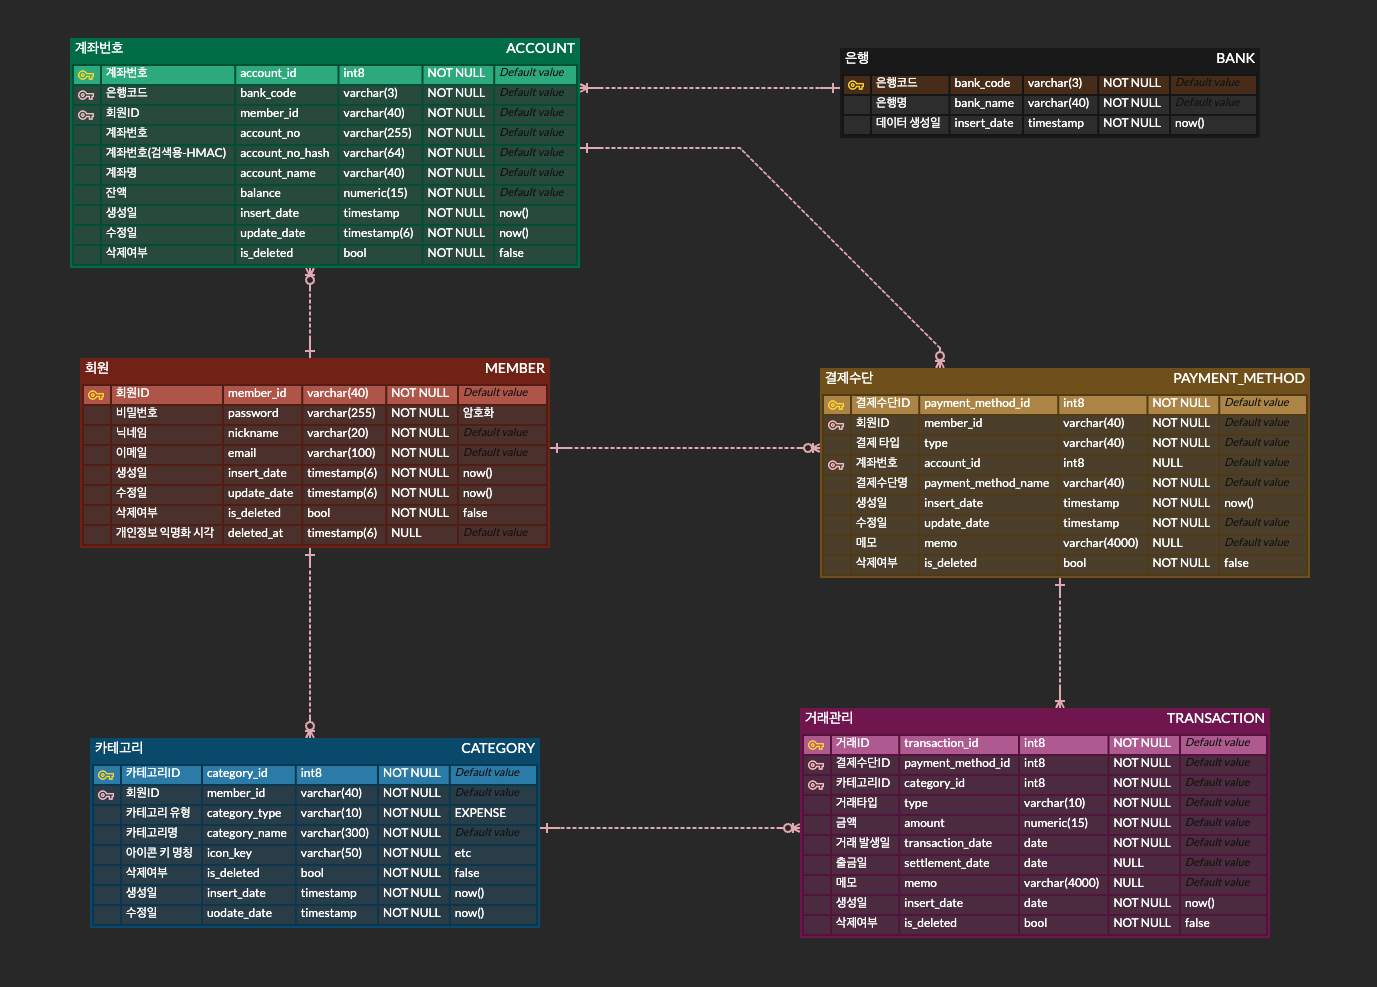
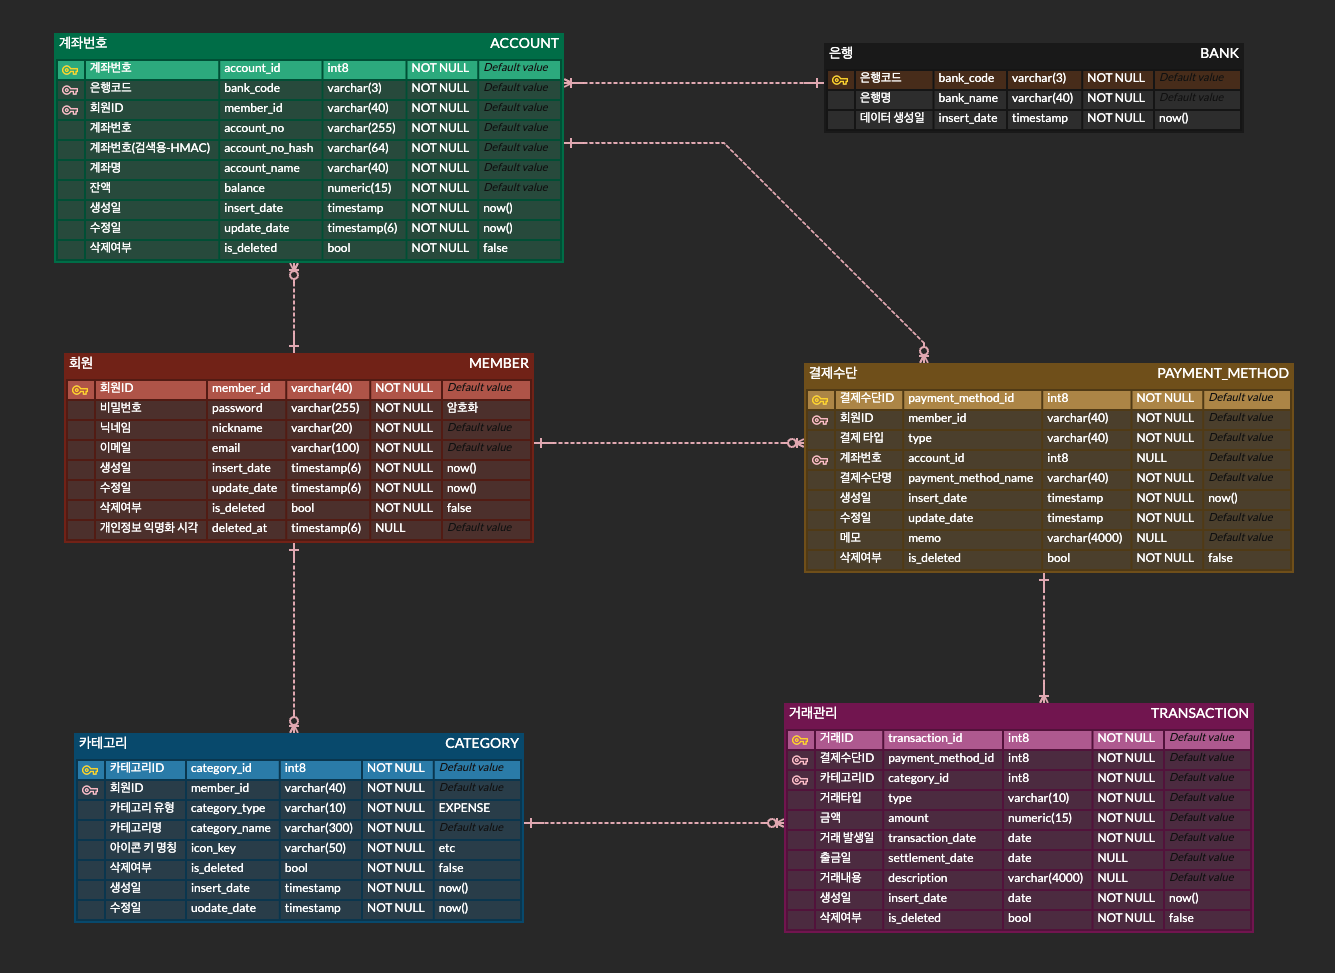
docs: transaction.memo → description 컬럼명 변경으로 인한 erd 이미지 수정 및 README 파일 기능 리스트 수정

diff --git a/README.md b/README.md
@@ -22,8 +22,9 @@
 - [x] 카테고리 관리
 - [x] 계좌 관리
 - [x] 결제수단 관리
-- [ ] 거래내역 관리
-- [ ] 대시보드
+- [x] 거래내역 관리
+- [x] 대시보드
+- [ ] 거래내역 OCR 기능 추가(영수증 인식)
 - [ ] 이메일 인증
 - [ ] AI 챗봇 (자연어 기반 지출 조회)
 - [ ] OAuth2 소셜 로그인
